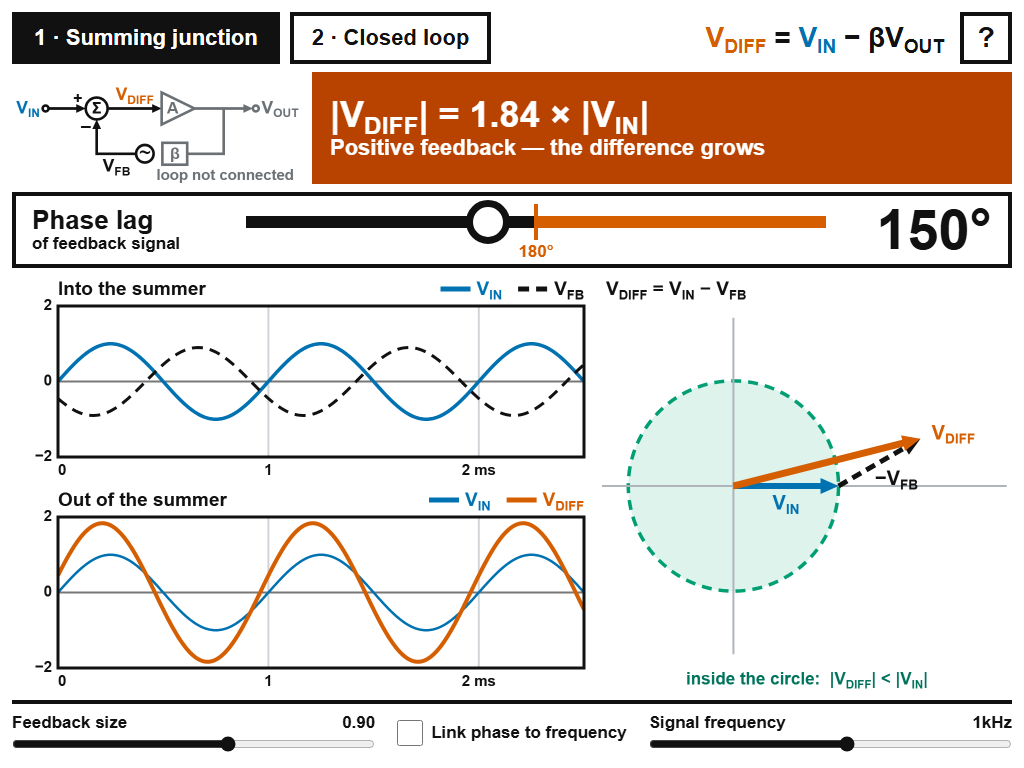
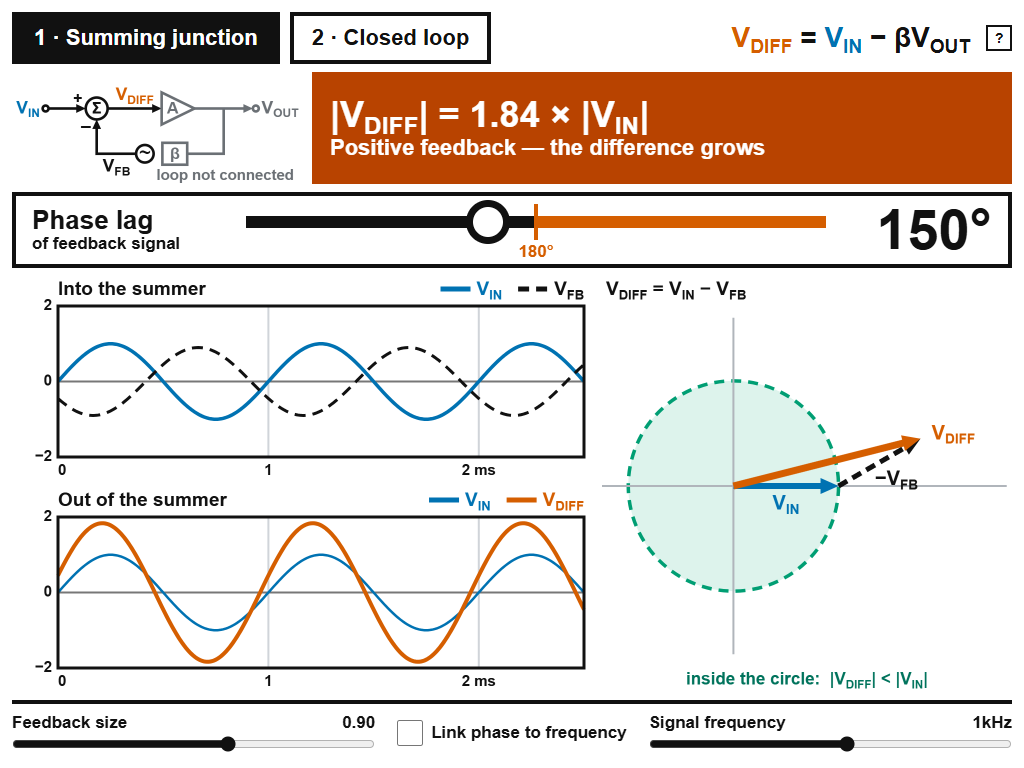
View 2 slider is "Feedback Phase Lag"; drop crossover/180 deg Bode dots; smaller "?" button
- Phase slider title now depends on the view (phase_label / phaseLabel): view 1
  keeps "Phase lag", view 2 reads "Feedback Phase Lag" because there the slider
  picks the loop's lag at crossover (a different amplifier), not a signal's phase.
  The label block grows and the rail shrinks to fit the longer title.
- Bode plots: the grey |AB| = 1 and orange 180 deg markers are lines only. The
  dots on them implied those exact points were special. The signal-frequency dot stays.
- "?" button is half size (26 px, 14 px text, 2 px border).
- Parity test for the slider label; README screenshots retaken.

Claude-Session: https://claude.ai/code/session_01CdaLBysrQ9tEWyoN4EvuJw

Changed region(s): [[0.6875, 0.0, 1.0, 0.0938]]

diff --git a/feedback_phase_sim.html b/feedback_phase_sim.html
@@ -32,7 +32,7 @@
   .row { display: flex; flex: none; }
   #header { align-items: center; gap: 10px; height: 52px; }
   #header button { height: 52px; padding: 0 18px; border-width: 4px; font-size: 22px; }
-  #header #help { width: 52px; padding: 0; font-size: 28px; }
+  #header #help { width: 26px; height: 26px; padding: 0; font-size: 14px; border-width: 2px; }
   #eq { font-size: 28px; white-space: nowrap; margin-right: 6px; }
   #banner {
     flex: 1; min-width: 0; color: #FFFFFF; padding: 6px 18px;
@@ -86,8 +86,8 @@
   </div>
 
   <div id="phasebar" class="row">
-    <div style="width:176px;flex:none;white-space:nowrap">
-      <div style="font-size:26px;line-height:1.1">Phase lag</div>
+    <div style="min-width:176px;flex:none;white-space:nowrap">
+      <div id="phaseTitle" style="font-size:26px;line-height:1.1">Phase lag</div>
       <div id="phaseSub" style="font-size:17px;line-height:1.2"></div>
     </div>
     <div id="track">
@@ -264,6 +264,10 @@ function view1Status(k, phDeg) {
   if (ratio > 1.005) return { bg: C.BAD, lines: [b1, 'Positive feedback — the difference grows'] };
   return { bg: C.MID, lines: [b1, 'Rotated, but not shrunk'] };
 }
+// title and sub-line of the big phase slider (view 2 picks a different amplifier)
+function phaseLabel(mode) {
+  return mode === 1 ? ['Phase lag', 'of feedback signal'] : ['Feedback Phase Lag', 'of Aβ where |Aβ| = 1'];
+}
 function view2Status(phDeg) {             // phDeg = lag of A*B at crossover
   const pm = 180 - phDeg, f180 = freqForPhase(180, tauFor(phDeg)), gm = f180 ? -20 * Math.log10(loopMag(f180)) : null;
   let bg, msg;
@@ -436,12 +440,10 @@ function drawStatic() {
   const magPlot = { ...xb, title: '|Aβ|  (dB)', yr: [-30, 50], yticks: [-20, 0, 20, 40], noX: true,
     hlines: [{ y: 0, color: C.MID }], series: [{ xs: bf, ys: mag, color: C.INK, width: 3.5 }],
     texts: [{ x: FC, dx: -8, dy: 16, text: '|Aβ| = 1', color: C.MID, align: 'right' }],
-    dots: [{ x: FC, y: 0, color: C.MID }, { x: f180, y: f180 ? 20 * Math.log10(loopMag(f180)) : 0, color: C.DIFF },
-           { x: fsig, y: fsig ? 20 * Math.log10(loopMag(fsig)) : 0, color: C.VIN }] };
+    dots: [{ x: fsig, y: fsig ? 20 * Math.log10(loopMag(fsig)) : 0, color: C.VIN }] };
   const phPlot = { ...xb, title: 'Phase of Aβ  (°)', yr: [-360, 0], yticks: [-360, -180, 0], xunit: 'Hz',
     hlines: [{ y: -180, color: C.DIFF }], series: [{ xs: bf, ys: ph, color: C.INK, width: 3.5 }],
-    dots: [{ x: FC, y: -loopPhase(FC, tau), color: C.MID }, { x: f180, y: -180, color: C.DIFF },
-           { x: fsig, y: fsig ? -loopPhase(fsig, tau) : 0, color: C.VIN }] };
+    dots: [{ x: fsig, y: fsig ? -loopPhase(fsig, tau) : 0, color: C.VIN }] };
   if (S.mode === 1) { drawPhasor(); if (S.link) plot(cv.r2, phPlot); }
   else { plot(cv.r1, magPlot); plot(cv.r2, phPlot); }
 }
@@ -533,7 +535,7 @@ function update() {
 
   const alert = m === 1 ? ph >= 180 : ph > 180, ink = alert ? C.DIFF : C.INK;
   const pct = v => ((v - lo) / (hi - lo) * 100) + '%';
-  $('phaseSub').textContent = m === 1 ? 'of feedback signal' : 'of Aβ where |Aβ| = 1';
+  const pl = phaseLabel(m); $('phaseTitle').textContent = pl[0]; $('phaseSub').textContent = pl[1];
   $('phaseVal').textContent = ph.toFixed(0) + '°'; $('phaseVal').style.color = ink;
   $('thumb').style.left = pct(ph); $('thumb').style.borderColor = ink;
   for (const id of ['railHot', 'mark', 'markText']) $(id).style.left = pct(180);

diff --git a/feedback_phase_sim.py b/feedback_phase_sim.py
@@ -103,6 +103,15 @@ def time_unit(span):
     return ("ms", 1e3) if span >= 2e-3 else ("µs", 1e6)
 
 
+def phase_label(mode):
+    """(title, sub-line) of the big phase slider.  View 1 imposes a lag on the
+    fed-back signal; in view 2 the same slider picks the loop's lag at crossover,
+    i.e. a different amplifier, so it is named differently."""
+    if mode == 1:
+        return "Phase lag", "of feedback signal"
+    return "Feedback Phase Lag", "of Aβ where |Aβ| = 1"
+
+
 class LoopSim:
     """Time-domain closed loop with rail saturation (forward Euler + delay line)."""
     DT = 2.5e-8
@@ -803,16 +812,18 @@ class PhaseBar(_Track):
     H = 76
 
     def __init__(self, parent, lo, hi, init, on_change):
-        self.sub, self.alert = "", False
+        self.title, self.sub, self.alert = "Phase lag", "", False
         super().__init__(parent, lo, hi, init, on_change, step=1.0)
 
     def rail(self):
         # border 4 + pad 16 + label block 176 + gap 16 + thumb room 22 = 234;
-        # right side the same with the 128-wide readout
-        return 234 * Z, self.cv.winfo_width() - 186 * Z
+        # right side the same with the 128-wide readout.  The label block
+        # grows (and the rail shrinks) when the title is wider than 176.
+        x0 = max(234 * Z, rich_width(bold(26), self.title) + 58 * Z)
+        return x0, self.cv.winfo_width() - 186 * Z
 
-    def set_sub(self, text):
-        self.sub = text
+    def set_label(self, title, sub):
+        self.title, self.sub = title, sub
         self.draw()
 
     def set_alert(self, on):
@@ -829,7 +840,7 @@ class PhaseBar(_Track):
         ink = C_DIFF if self.alert else C_INK
         bw = zs(4)
         cv.create_rectangle(bw / 2, bw / 2, w - bw / 2, h - bw / 2, width=bw, outline=C_INK)
-        draw_rich(cv, 20 * Z, 28 * Z, "Phase lag", bold(26), C_INK, "w")
+        draw_rich(cv, 20 * Z, 28 * Z, self.title, bold(26), C_INK, "w")
         draw_rich(cv, 20 * Z, 52 * Z, self.sub, bold(17), C_INK, "w")
         x0, x1 = self.rail()
         xm = x0 + self.frac(180.0) * (x1 - x0)
@@ -1004,7 +1015,7 @@ class App:
                               padx=18, gap=10)
         self.tabs.cv.pack(side="left")
         self.help_btn = ButtonBar(header, ["?"], lambda i: self.toggle_help(),
-                                  size=28, height=52, border=4, width=52)
+                                  size=14, height=26, border=2, width=26)
         self.help_btn.cv.pack(side="right")
         self.eq = tk.Canvas(header, bg=BG, highlightthickness=0, width=1, height=1)
         self.eq.pack(side="right")
@@ -1255,7 +1266,7 @@ class App:
         pa, pb = self.pa, self.pb
         if m == 1:
             self.s_phase.set_range(0.0, 360.0)
-            self.s_phase.set_sub("of feedback signal")
+            self.s_phase.set_label(*phase_label(1))
             pa.configure(title="Into the summer")
             pb.configure(title="Out of the summer")
             pb.hlines = []
@@ -1268,7 +1279,7 @@ class App:
             self.bp.configure(xrange=BODE_X1)
         else:
             self.s_phase.set_range(95.0, 270.0)
-            self.s_phase.set_sub("of Aβ where |Aβ| = 1")
+            self.s_phase.set_label(*phase_label(2))
             lim = VCC * 1.2
             pa.configure(title="At the summer", yrange=(-lim, lim), yticks=[-VCC, 0, VCC])
             pb.hlines = [(VCC, C_MID, "+V_{CC}", True), (-VCC, C_MID, "−V_{CC}", False)]
@@ -1547,11 +1558,8 @@ class App:
             p.put("fsig", "vline", x=fsig, color=C_VIN)
         self.bm.put("fc_t", "text", x=FC, text="|Aβ| = 1", color=C_MID, anchor="e",
                     dx=-8, dy=16)
-        self.bm.put("fc_d", "dot", x=FC, y=0, color=C_MID)
-        self.bp.put("fc_d", "dot", x=FC, y=-loop_phase(FC, tau), color=C_MID)
-        self.bm.put("f180_d", "dot", x=f180,
-                    y=20 * math.log10(loop_mag(f180)) if f180 else 0, color=C_DIFF)
-        self.bp.put("f180_d", "dot", x=f180, y=-180, color=C_DIFF)
+        # Only the signal frequency gets a dot.  The crossover and 180-deg
+        # lines carry the margins; dots on them made those points look special.
         if fsig:
             self.bm.put("fsig_d", "dot", x=fsig, y=20 * math.log10(loop_mag(fsig)), color=C_VIN)
             self.bp.put("fsig_d", "dot", x=fsig, y=-loop_phase(fsig, tau), color=C_VIN)

diff --git a/tests/test_parity.py b/tests/test_parity.py
@@ -131,6 +131,11 @@ class Parity(unittest.TestCase):
             self.assertEqual(g["bg"], color, c)
             self.assertEqual(g["lines"], [text for text, _, _ in lines], c)
 
+    def test_phase_slider_label(self):
+        got = js([fn("phaseLabel", 1), fn("phaseLabel", 2)])
+        self.assertEqual(got, [list(m.phase_label(1)), list(m.phase_label(2))])
+        self.assertEqual(m.phase_label(2)[0], "Feedback Phase Lag")
+
     def test_notes(self):
         notes = js([fn("NOTES")])[0]
         self.assertEqual(len(notes), len(m.NOTES))

diff --git a/CLAUDE.md b/CLAUDE.md
@@ -22,7 +22,7 @@ paths and personal details.
   sizes. Enforced by `tests/test_parity.py` for everything except layout/drawing.
 - **Testable logic lives in pure module-level functions**, same names in both files
   (`view1_status`/`view1Status`, `view2_status`, `view1_ratio`, `linked_phase`,
-  `time_unit`, `bode_freqs`, formatters). Put new numbers/wording there, not inside
+  `time_unit`, `phase_label`, `bode_freqs`, formatters). Put new numbers/wording there, not inside
   `App.refresh` / `update()`, or the tests can't see them.
 - **View 1 signal frequency is 1 Hz - 300 kHz** so the linked phase reaches 0 deg
   (pole alone is 5.7 deg at 100 Hz). View 1's Bode axis is therefore 1 Hz - 1 MHz
@@ -73,6 +73,11 @@ paths and personal details.
   in one text item, so `draw_rich()` / `draw_runs()` draw runs on canvases; `RichText`
   (read-only tk.Text) is only used for wrapped text in the "?" notes window. Plain-text
   spots (window title, Plot.put() "text" annotations) can't use markup.
+- **Phase slider title differs by view** (`phase_label`): "Phase lag" in view 1 (a lag
+  imposed on the signal), "Feedback Phase Lag" in view 2 (lag of A*B at crossover = a
+  different amplifier). The label block grows and the rail shrinks to fit the longer title.
+- **Bode dots:** only the signal frequency gets a dot. The crossover (grey) and 180 deg
+  (orange) are lines only, on purpose - dots there made those points look special.
 - Loop model and why a pure delay is used for excess phase: see README.md "The model"
   and the constants at the top of `feedback_phase_sim.py`.
 
